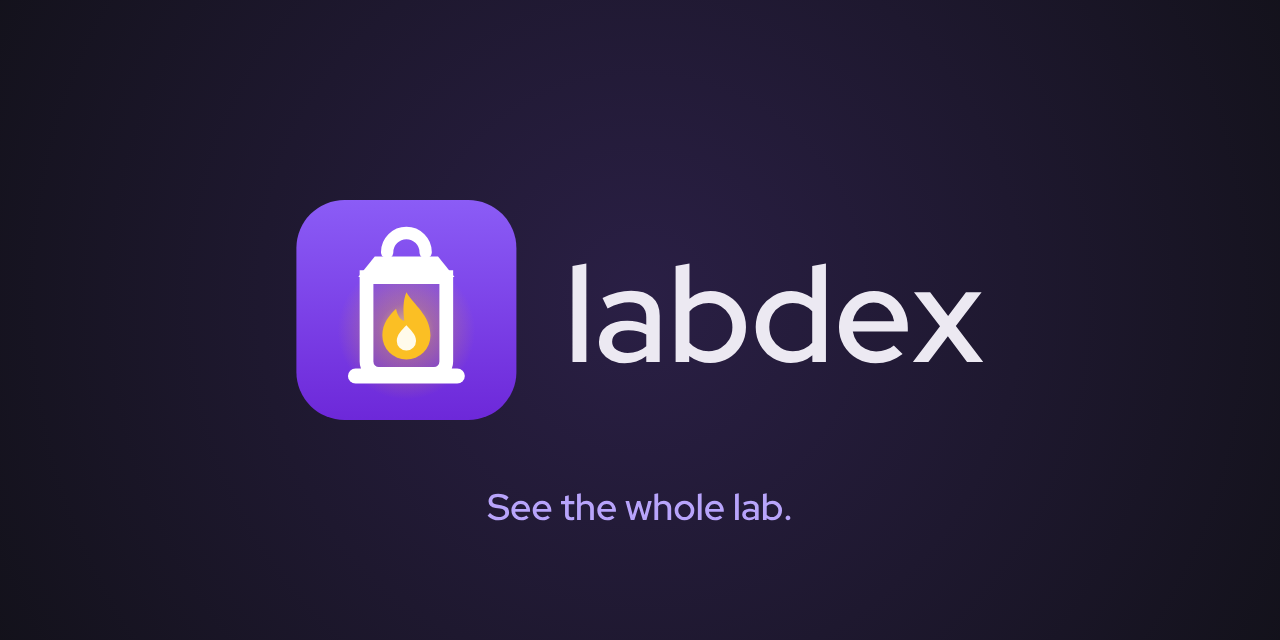
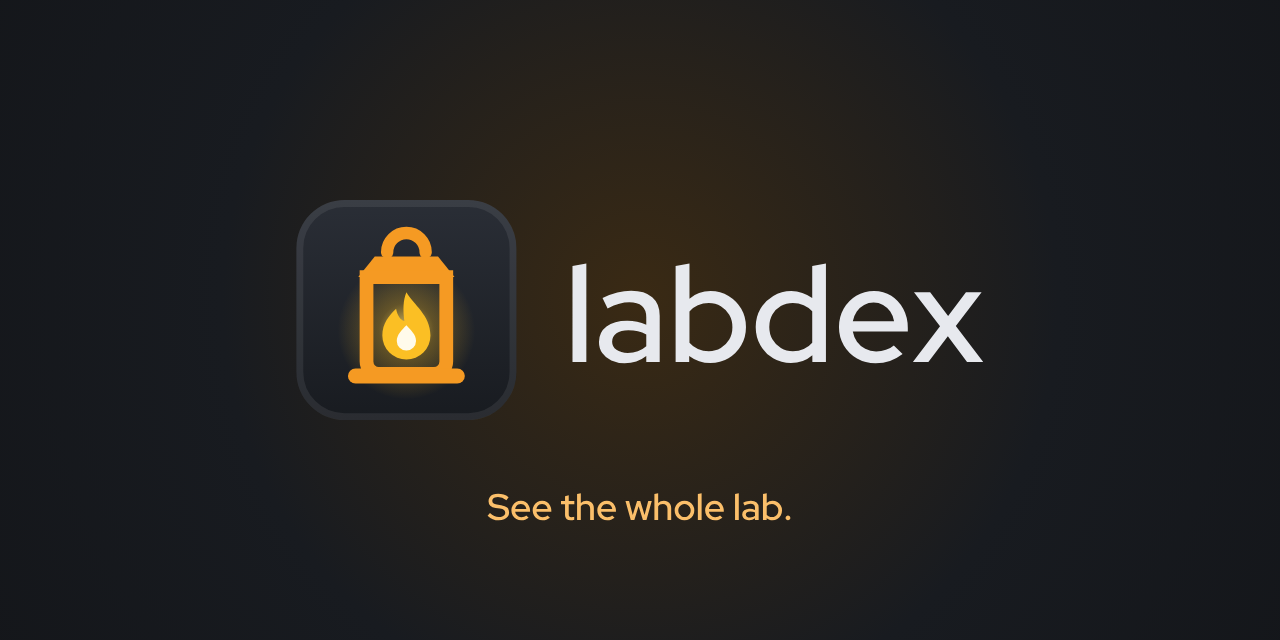
Lantern orange: an orange accent on neutral graphite
Mike asked for an orange, lantern-like theme with the greys kept neutral.
The neutrals go back to main's graphite. --accent is a bright orange in the
dark theme (with dark text on filled accents, --on-accent) and a deeper
orange in the light theme (white text). --warn moves to a clearer yellow so
it doesn't read as the accent. The mark is an orange lantern on a graphite
tile; the docs get a graphite header with an orange line.

Claude-Session: https://claude.ai/code/session_01Mn3pynnH7Go6qJ4CaXCCEE

diff --git a/frontend/src/style.css b/frontend/src/style.css
@@ -1,5 +1,5 @@
-/* labdex — a quiet dusk surface, lit like a lantern; colour is reserved for zones, status and the one primary action.
-   --glow (lantern amber) is a brand colour for the mark and brand moments, never a status: warnings keep --warn. */
+/* labdex — one quiet graphite surface, lit by a lantern: amber-orange is the one accent; other colour is
+   reserved for zones and status. Text on a filled accent uses --on-accent (dark on the bright dark-theme orange). */
 @import "@fontsource/red-hat-text/latin-400.css";
 @import "@fontsource/red-hat-text/latin-500.css";
 @import "@fontsource/red-hat-text/latin-600.css";
@@ -8,24 +8,23 @@
 @import "@fontsource/red-hat-mono/latin-500.css";
 
 :root {
-  --bg: #121119;
-  --panel: #17151f;
-  --card: #1c1a25;
-  --raise: #26232f;
+  --bg: #14161a;
+  --panel: #181b20;
+  --card: #1c1f25;
+  --raise: #252931;
   --hover: rgba(255, 255, 255, .035);
-  --ink: #ece9f2;
-  --muted: #a39fb0;
-  --faint: #918da0;
-  --line: #2b2835;
-  --line-strong: #3c3848;
-  --accent: #7c3aed;
-  --accent-hover: #6d28d9;
-  --accent-soft: #b8a4fb;
-  --accent-faint: rgba(139, 92, 246, 0.15);
-  --glow: #fbbf24;             /* lantern amber: the flame in the mark, brand moments only */
-  --glow-faint: rgba(251, 191, 36, .12);
+  --ink: #e7e9ee;
+  --muted: #a0a6b2;
+  --faint: #8e94a3;
+  --line: #2a2e36;
+  --line-strong: #3a3f49;
+  --accent: #f59a23;
+  --accent-hover: #e8850c;
+  --accent-soft: #fbbf6a;
+  --accent-faint: rgba(245, 154, 35, 0.14);
+  --on-accent: #1a1206;
   --ok: #4ade80;
-  --warn: #fbbf24;
+  --warn: #facc15;
   --err: #f87171;
   --err-solid: #b91c1c;        /* filled danger: a destructive button, an error toast (both themes) */
   --err-solid-hover: #991b1b;
@@ -43,33 +42,32 @@
   --r-box: 10px;     /* cards, dialogs */
   --r-sm: 4px;       /* badges, swatches, small marks */
   --gap: 16px;
-  --code: #d9cffd;
-  --scrim: rgba(9, 8, 14, .62);
+  --code: #fcd9a8;
+  --scrim: rgba(8, 9, 12, .62);
   --shadow: rgba(0, 0, 0, .45);
-  --bar-bg: rgba(20, 18, 28, .94);
+  --bar-bg: rgba(22, 22, 24, .94);
   --zone-mix: 100%;  /* zone and tag colours as chosen; the light theme darkens them to stay readable */
   color-scheme: dark;
 }
-/* Light: a cool, quiet paper; the same accent. Chosen in the user menu, or follows the system. */
+/* Light: a cool, quiet paper; a deeper orange, so white text on it and orange text on paper stay readable. Chosen in the user menu, or follows the system. */
 :root[data-theme="light"] {
-  --bg: #f5f3f8;
-  --panel: #edeaf2;
+  --bg: #f3f4f6;
+  --panel: #eceef1;
   --card: #ffffff;
-  --raise: #e4e0eb;
-  --hover: rgba(25, 20, 40, .04);
-  --ink: #19171f;
-  --muted: #514c5c;
-  --faint: #5d5869;
-  --line: #e2dee9;
-  --line-strong: #c9c3d4;
-  --accent: #7c3aed;
-  --accent-hover: #6d28d9;
-  --accent-soft: #6427d4;
-  --accent-faint: rgba(124, 58, 237, 0.1);
-  --glow: #b45309;
-  --glow-faint: rgba(217, 119, 6, .1);
+  --raise: #e3e6eb;
+  --hover: rgba(15, 23, 42, .04);
+  --ink: #181b21;
+  --muted: #4f5662;
+  --faint: #5b616e;
+  --line: #e0e3e8;
+  --line-strong: #c6cbd3;
+  --accent: #b85a0a;
+  --accent-hover: #9f4c06;
+  --accent-soft: #a14a06;
+  --accent-faint: rgba(184, 90, 10, 0.1);
+  --on-accent: #fff;
   --ok: #16803c;
-  --warn: #9a5006;
+  --warn: #7a5c00;
   --err: #c42727;
   --c-magenta: #a21caf;
   --c-green: #16803c;
@@ -77,33 +75,32 @@
   --c-blue: #1d5fd1;
   --c-red: #c42727;
   --c-white: #5b5b63;
-  --code: #5b21b6;
-  --scrim: rgba(25, 20, 40, .32);
-  --shadow: rgba(25, 20, 40, .14);
+  --code: #9a3412;
+  --scrim: rgba(15, 23, 42, .32);
+  --shadow: rgba(15, 23, 42, .14);
   --bar-bg: rgba(255, 255, 255, .94);
   --zone-mix: 42%;
   color-scheme: light;
 }
 @media (prefers-color-scheme: light) {
   :root:not([data-theme="dark"]):not([data-theme="light"]) {
-  --bg: #f5f3f8;
-    --panel: #edeaf2;
+  --bg: #f3f4f6;
+    --panel: #eceef1;
     --card: #ffffff;
-    --raise: #e4e0eb;
-    --hover: rgba(25, 20, 40, .04);
-    --ink: #19171f;
-    --muted: #514c5c;
-    --faint: #5d5869;
-    --line: #e2dee9;
-    --line-strong: #c9c3d4;
-    --accent: #7c3aed;
-    --accent-hover: #6d28d9;
-    --accent-soft: #6427d4;
-    --accent-faint: rgba(124, 58, 237, 0.1);
-    --glow: #b45309;
-    --glow-faint: rgba(217, 119, 6, .1);
+    --raise: #e3e6eb;
+    --hover: rgba(15, 23, 42, .04);
+    --ink: #181b21;
+    --muted: #4f5662;
+    --faint: #5b616e;
+    --line: #e0e3e8;
+    --line-strong: #c6cbd3;
+    --accent: #b85a0a;
+    --accent-hover: #9f4c06;
+    --accent-soft: #a14a06;
+    --accent-faint: rgba(184, 90, 10, 0.1);
+    --on-accent: #fff;
     --ok: #16803c;
-    --warn: #9a5006;
+    --warn: #7a5c00;
     --err: #c42727;
     --c-magenta: #a21caf;
     --c-green: #16803c;
@@ -111,9 +108,9 @@
     --c-blue: #1d5fd1;
     --c-red: #c42727;
     --c-white: #5b5b63;
-    --code: #5b21b6;
-    --scrim: rgba(25, 20, 40, .32);
-    --shadow: rgba(25, 20, 40, .14);
+    --code: #9a3412;
+    --scrim: rgba(15, 23, 42, .32);
+    --shadow: rgba(15, 23, 42, .14);
     --bar-bg: rgba(255, 255, 255, .94);
     --zone-mix: 42%;
     color-scheme: light;
@@ -178,7 +175,7 @@ b, strong { font-weight: 600; }
 }
 .btn:hover { border-color: var(--faint); text-decoration: none; }
 .btn svg { flex: none; }
-.btn.primary { background: var(--accent); border-color: var(--accent); color: #fff; }
+.btn.primary { background: var(--accent); border-color: var(--accent); color: var(--on-accent); }
 .btn.primary:hover { background: var(--accent-hover); }
 .btn.danger { color: var(--err); }
 .btn.danger:hover { border-color: var(--err); }
@@ -309,7 +306,7 @@ ul.plain li { padding: 3px 0; word-break: break-all; }
 @media (max-width: 700px) { .page { padding: 16px; } }
 
 /* v0.2 additions */
-.pill.info { background: var(--accent); }
+.pill.info { background: var(--accent); color: var(--on-accent); }
 .tabs { display: flex; gap: 4px; box-shadow: inset 0 -1px 0 var(--line); margin-bottom: 20px; overflow-x: auto; overflow-y: hidden; scrollbar-width: none; }
 .tabs::-webkit-scrollbar { display: none; }
 .tabs a { padding: 8px 12px; color: var(--muted); font-weight: 500; border-bottom: 2px solid transparent; white-space: nowrap; }

diff --git a/frontend/src/App.vue b/frontend/src/App.vue
@@ -271,7 +271,7 @@ onMounted(() => { start(); window.addEventListener('keydown', sideKey) })
 </template>
 
 <style scoped>
-.skip { position: absolute; left: 8px; top: -40px; z-index: 100; background: var(--accent); color: #fff; padding: 6px 12px; border-radius: var(--r-ctl); }
+.skip { position: absolute; left: 8px; top: -40px; z-index: 100; background: var(--accent); color: var(--on-accent); padding: 6px 12px; border-radius: var(--r-ctl); }
 .skip:focus { top: 8px; }
 .main:focus { outline: none; }
 .themes { display: flex; align-items: center; justify-content: space-between; gap: 8px; padding: 6px 12px 8px; }
@@ -290,7 +290,6 @@ onMounted(() => { start(); window.addEventListener('keydown', sideKey) })
 .brand { display: inline-flex; align-items: center; gap: 8px; font-family: var(--disp); font-weight: 600; font-size: calc(17px * var(--text)); color: var(--ink); letter-spacing: -.01em; }
 .brand .wm span { color: var(--accent-soft); }
 .brand:hover { text-decoration: none; }
-.brand img { filter: drop-shadow(0 0 6px var(--glow-faint)); }  /* the lantern gives off a little light */
 .inst { font-size: calc(12px * var(--text)); color: var(--faint); white-space: nowrap; overflow: hidden; text-overflow: ellipsis; }
 .side-scroll { flex: 1; min-height: 0; display: flex; flex-direction: column; padding: 0 0 8px; }
 .side-links { flex: none; max-height: 66vh; overflow-y: auto; padding: 2px 8px 6px; scrollbar-width: thin; }
@@ -334,7 +333,7 @@ onMounted(() => { start(); window.addEventListener('keydown', sideKey) })
 .mhead { padding: 8px 12px 6px; border-bottom: 1px solid var(--line); margin-bottom: 4px; }
 .menu-scrim { position: fixed; inset: 0; z-index: 11; }
 .show-m { display: none !important; }
-.avatar { width: 22px; height: 22px; border-radius: 50%; background: var(--accent); color: #fff; display: inline-grid; place-items: center;
+.avatar { width: 22px; height: 22px; border-radius: 50%; background: var(--accent); color: var(--on-accent); display: inline-grid; place-items: center;
   font-size: calc(11px * var(--text)); font-weight: 700; flex: none; margin-left: -2px; }
 .menu { position: absolute; right: 0; top: 38px; z-index: 30; min-width: 240px; }
 .menu a, .menu button { display: block; width: 100%; text-align: left; font: inherit; color: var(--ink); background: none; border: 0;
@@ -349,7 +348,7 @@ onMounted(() => { start(); window.addEventListener('keydown', sideKey) })
 .small .nl { justify-content: center; }
 .scrim { display: none; }
 .main { min-width: 0; }
-.toast { position: fixed; bottom: 22px; left: 50%; transform: translateX(-50%); z-index: 50; background: var(--accent); color: #fff;
+.toast { position: fixed; bottom: 22px; left: 50%; transform: translateX(-50%); z-index: 50; background: var(--accent); color: var(--on-accent);
   padding: 9px 16px; border-radius: var(--r-box); font-weight: 600; box-shadow: 0 8px 24px var(--shadow); max-width: min(90vw, 640px); }
 .toast.error { background: var(--err-solid); }
 @media (max-width: 860px) {

diff --git a/docs/stylesheets/labdex.css b/docs/stylesheets/labdex.css
@@ -1,4 +1,4 @@
-/* The docs in labdex's own look: its violet, dusk neutrals, lantern amber and Red Hat fonts (self-hosted, SIL OFL 1.1, see assets/fonts/OFL.txt). */
+/* The docs in labdex's own look: lantern orange, graphite and Red Hat fonts (self-hosted, SIL OFL 1.1, see assets/fonts/OFL.txt). */
 @font-face { font-family: "Red Hat Text"; font-weight: 400; font-display: swap; src: url("../assets/fonts/red-hat-text-latin-400-normal.woff2") format("woff2"); }
 @font-face { font-family: "Red Hat Text"; font-weight: 600; font-display: swap; src: url("../assets/fonts/red-hat-text-latin-600-normal.woff2") format("woff2"); }
 @font-face { font-family: "Red Hat Display"; font-weight: 600; font-display: swap; src: url("../assets/fonts/red-hat-display-latin-600-normal.woff2") format("woff2"); }
@@ -7,27 +7,27 @@
 :root {
   --md-text-font: "Red Hat Text";
   --md-code-font: "Red Hat Mono";
-  --md-primary-fg-color: #7c3aed;
-  --md-primary-fg-color--light: #b8a4fb;
-  --md-primary-fg-color--dark: #6d28d9;
-  --md-primary-bg-color: #ffffff;
-  --labdex-glow: #b45309;
+  /* a graphite header with an orange line, like the app; orange is for links and highlights */
+  --md-primary-fg-color: #181b20;
+  --md-primary-fg-color--light: #252931;
+  --md-primary-fg-color--dark: #14161a;
+  --md-primary-bg-color: #e7e9ee;
+  --md-primary-bg-color--light: #a0a6b2;
 }
 [data-md-color-scheme="default"] {
-  --md-accent-fg-color: #6427d4;
-  --md-typeset-a-color: #6427d4;
+  --md-accent-fg-color: #9f4c06;
+  --md-typeset-a-color: #a14a06;
+  --labdex-accent: #b85a0a;
 }
-/* #7c3aed text on the dark background is only 3.2:1, so links use the soft violet the app uses */
 [data-md-color-scheme="slate"] {
-  --md-default-bg-color: #121119;
-  --md-code-bg-color: #1c1a25;
-  --md-footer-bg-color: #17151f;
-  --md-footer-bg-color--dark: #121119;
-  --md-accent-fg-color: #b8a4fb;
-  --md-typeset-a-color: #b8a4fb;
-  --labdex-glow: #fbbf24;
+  --md-default-bg-color: #14161a;
+  --md-code-bg-color: #1c1f25;
+  --md-footer-bg-color: #181b20;
+  --md-footer-bg-color--dark: #14161a;
+  --md-accent-fg-color: #f59a23;
+  --md-typeset-a-color: #fbbf6a;
+  --labdex-accent: #f59a23;
 }
+.md-header { box-shadow: inset 0 -3px 0 #f59a23; }
+.md-typeset h1::after { content: ""; display: block; width: 2.2rem; height: 3px; margin-top: .35rem; border-radius: 2px; background: var(--labdex-accent); }
 .md-typeset h1, .md-typeset h2, .md-header__topic:first-child { font-family: "Red Hat Display", var(--md-text-font-family); font-weight: 600; }
-/* the header and the first-page title carry a little lantern light */
-.md-header { box-shadow: inset 0 -2px 0 color-mix(in srgb, #fbbf24 55%, transparent); }
-.md-typeset h1::after { content: ""; display: block; width: 2.2rem; height: 3px; margin-top: .35rem; border-radius: 2px; background: var(--labdex-glow); }

diff --git a/frontend/src/views/Login.vue b/frontend/src/views/Login.vue
@@ -76,7 +76,7 @@ async function submit() {
 <style scoped>
 /* the sign-in card sits in a pool of lantern light */
 .wrap { min-height: 100vh; display: grid; place-items: center; padding: 16px; border-top: 3px solid var(--accent);
-  background: radial-gradient(circle at 50% 42%, var(--glow-faint), transparent 420px), radial-gradient(circle at 50% 42%, var(--accent-faint), transparent 760px); }
+  background: radial-gradient(circle at 50% 42%, var(--accent-faint), transparent 560px); }
 .box { width: min(400px, 100%); padding: 28px; }
 .brand { display: flex; align-items: center; gap: 10px; font-family: var(--disp); font-weight: 600; font-size: calc(20px * var(--text)); margin-bottom: 18px; }
 .brand span span { color: var(--accent-soft); }

diff --git a/backend/tools/brand.py b/backend/tools/brand.py
@@ -15,9 +15,10 @@ FONT = ROOT / "docs/assets/fonts/red-hat-display-latin-600-normal.woff2"
 DOCS = ROOT / "docs/assets"
 APP = ROOT / "frontend/src/assets"
 
-VIOLET_TOP, VIOLET_BOTTOM = "#8b5cf6", "#6d28d9"
+TILE_TOP, TILE_BOTTOM = "#2a2e36", "#181b20"  # the UI's graphite
+BRASS = "#f59a23"  # the accent orange: the lantern's frame
 GLOW, GLOW_CORE = "#fbbf24", "#fffbeb"
-INK_LIGHT, INK_DARK = "#19171f", "#ece9f2"
+INK_LIGHT, INK_DARK = "#181b21", "#e7e9ee"
 WORD = "labdex"
 TAGLINE = "See the whole lab."
 
@@ -47,11 +48,13 @@ def lantern(line: str, uid: str) -> str:
 
 
 def tile(uid: str = "") -> str:
-    """The app icon: the white lantern on a violet tile."""
+    """The app icon: the orange lantern, lit, on a graphite tile (a hairline edge keeps it apart from dark pages)."""
     return (
-        f'<linearGradient id="b{uid}" x1="0" y1="0" x2="0" y2="1"><stop offset="0" stop-color="{VIOLET_TOP}"/>'
-        f'<stop offset="1" stop-color="{VIOLET_BOTTOM}"/></linearGradient>'
-        f'<rect width="32" height="32" rx="7" fill="url(#b{uid})"/>' + lantern("#fff", uid)
+        f'<linearGradient id="b{uid}" x1="0" y1="0" x2="0" y2="1"><stop offset="0" stop-color="{TILE_TOP}"/>'
+        f'<stop offset="1" stop-color="{TILE_BOTTOM}"/></linearGradient>'
+        f'<rect width="32" height="32" rx="7" fill="url(#b{uid})"/>'
+        '<rect x=".5" y=".5" width="31" height="31" rx="6.5" fill="none" stroke="#fff" stroke-opacity=".08"/>'
+        + lantern(BRASS, uid)
     )
 
 
@@ -91,18 +94,18 @@ def social() -> str:
     x = (1280 - (220 + 48 + width)) / 2
     return svg("0 0 1280 640",
                '<radialGradient id="sky" cx="640" cy="300" r="760" gradientUnits="userSpaceOnUse">'
-               '<stop offset="0" stop-color="#2a1f45"/><stop offset="1" stop-color="#121119"/></radialGradient>'
+               '<stop offset="0" stop-color="#3a2a14"/><stop offset=".55" stop-color="#181b20"/><stop offset="1" stop-color="#14161a"/></radialGradient>'
                '<rect width="1280" height="640" fill="url(#sky)"/>'
                f'<g transform="translate({x:.1f} 200) scale(6.875)">{tile("s")}</g>'
                f'<path transform="translate({x + 268:.1f} 362)" fill="{INK_DARK}" d="{path}"/>'
-               f'<path transform="translate({(1280 - tag_w) / 2:.1f} 520)" fill="#b8a4fb" d="{tag}"/>')
+               f'<path transform="translate({(1280 - tag_w) / 2:.1f} 520)" fill="#fbbf6a" d="{tag}"/>')
 
 
 def main() -> None:
     files = {
         APP / "mark.svg": svg("0 0 32 32", tile()),
         DOCS / "labdex-mark.svg": svg("0 0 32 32", tile()),
-        DOCS / "labdex-mark-white.svg": svg("0 0 32 32", lantern("#fff", "")),  # on the docs' violet header
+        DOCS / "labdex-mark-white.svg": svg("0 0 32 32", lantern("#fff", "")),  # the bare lantern, for the docs header
         DOCS / "labdex-logo-light.svg": logo(INK_LIGHT),
         DOCS / "labdex-logo-dark.svg": logo(INK_DARK),
         DOCS / "labdex-social.svg": social(),

diff --git a/README.md b/README.md
@@ -7,10 +7,10 @@
 
 [![CI](https://github.com/labdex-app/labdex/actions/workflows/ci.yml/badge.svg?branch=main)](https://github.com/labdex-app/labdex/actions/workflows/ci.yml)
 [![Docs](https://github.com/labdex-app/labdex/actions/workflows/docs.yml/badge.svg?branch=main)](https://labdex-app.github.io/labdex/)
-[![Release](https://img.shields.io/github/v/release/labdex-app/labdex?color=7c3aed&labelColor=181b20)](https://github.com/labdex-app/labdex/releases/latest)
-[![Image](https://img.shields.io/badge/ghcr.io-labdex-7c3aed?labelColor=181b20)](https://github.com/labdex-app/labdex/pkgs/container/labdex)
-[![License](https://img.shields.io/github/license/labdex-app/labdex?color=7c3aed&labelColor=181b20)](LICENSE)
-[![Buy Me a Coffee](https://img.shields.io/badge/buy%20me%20a%20coffee-bitsandbricks-7c3aed?logo=buymeacoffee&logoColor=white&labelColor=181b20)](https://buymeacoffee.com/bitsandbricks)
+[![Release](https://img.shields.io/github/v/release/labdex-app/labdex?color=f59a23&labelColor=181b20)](https://github.com/labdex-app/labdex/releases/latest)
+[![Image](https://img.shields.io/badge/ghcr.io-labdex-f59a23?labelColor=181b20)](https://github.com/labdex-app/labdex/pkgs/container/labdex)
+[![License](https://img.shields.io/github/license/labdex-app/labdex?color=f59a23&labelColor=181b20)](LICENSE)
+[![Buy Me a Coffee](https://img.shields.io/badge/buy%20me%20a%20coffee-bitsandbricks-f59a23?logo=buymeacoffee&logoColor=white&labelColor=181b20)](https://buymeacoffee.com/bitsandbricks)
 
 A small inventory for homelabs that treats **zones and names as first-class**.
 You describe networks, hosts, interfaces and services once; labdex checks them

diff --git a/CHANGELOG.md b/CHANGELOG.md
@@ -6,11 +6,11 @@
   page titles) and Red Hat Mono, self-hosted like before, instead of IBM Plex. Text is a step
   larger by default (15 px instead of 14 px), and the menu under your name has **Text**: Compact
   (the old size), Comfortable or Large, kept in this browser.
-- **A logo**: a lit lantern on a violet tile (a frame around what it lights, like nested zones),
-  in the header, on the sign-in page and as the favicon. The theme is built around it: the dark
-  and light surfaces lean a little violet ("dusk"), and lantern amber marks brand moments only
-  (the flame, the sign-in glow, the docs header), never a status. The docs now use labdex's own
-  violet, dusk neutrals and Red Hat fonts (self-hosted, so
+- **A lantern look**: the logo is an orange lantern, lit, on a graphite tile, in the header, on
+  the sign-in page and as the favicon. The accent moves from violet to lantern orange (buttons,
+  links, focus, selection; darker in the light theme so text stays readable), and the greys stay
+  neutral. Warnings turn a clearer yellow so they don't look like the accent. The docs now use the
+  same graphite header, orange accent and Red Hat fonts (self-hosted, so
   the docs load nothing from Google either) with the logo, and the README shows it with CI,
   docs, release, image and licence badges. The container image carries OCI labels (title,
   description, source, docs, licence), so the GHCR package page links back to the repository.
